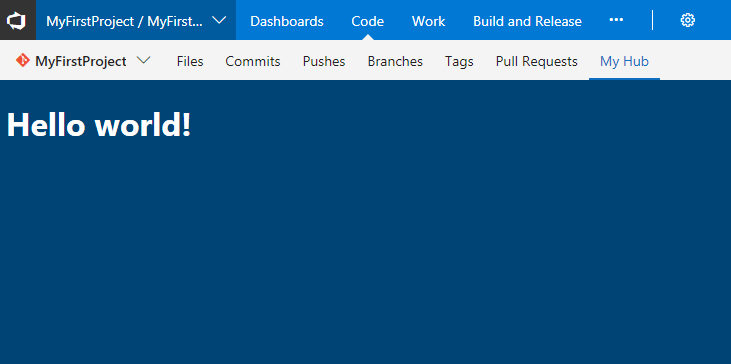
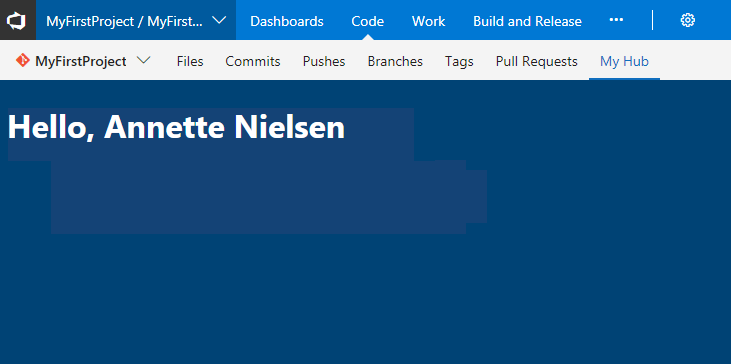
Merged PR 346730: update
update

Cherry picked from !346716

Changed region(s): [[0.0, 0.3022, 0.4815, 0.3929]]

diff --git a/docs/extend/get-started/node.md b/docs/extend/get-started/node.md
@@ -85,7 +85,7 @@ An extension is composed of a set of files, including a required manifest file, 
 				"id": "my-hub",
 				"type": "ms.vss-web.hub",
 				"targets": [
-					"ms.vss-work-web.code-hub-group"
+					"ms.vss-code-web.code-hub-group"
 				],
 				"properties": {
 					"name": "My Hub",
@@ -116,13 +116,24 @@ An extension is composed of a set of files, including a required manifest file, 
 	<!DOCTYPE html>
 	<html xmlns="http://www.w3.org/1999/xhtml">
 	<head>
-		<script src="lib/VSS.SDK.min.js"></script>
+    	<script src="lib/VSS.SDK.min.js"></script>
+    	<style>
+        	body {
+            	background-color: rgb(0, 67, 117);
+            	color: white;
+            	margin: 10px;    
+            	font-family: "Segoe UI VSS (Regular)","-apple-system",BlinkMacSystemFont,"Segoe UI",sans-serif;
+        	}
+    	</style>
+    	<script type="text/javascript">
+        	VSS.init();
+        	VSS.ready(function() {
+            	document.getElementById("name").innerText = VSS.getWebContext().user.name;
+        	});
+    	</script>
 	</head>
-	<body>
-		<script type="text/javascript">
-		VSS.init();
-		</script>
-		<h1>Hello world!</h1>		
+	<body>        
+    	<h1>Hello, <span id="name"></span></h1>
 	</body>
 	</html>
 	```
